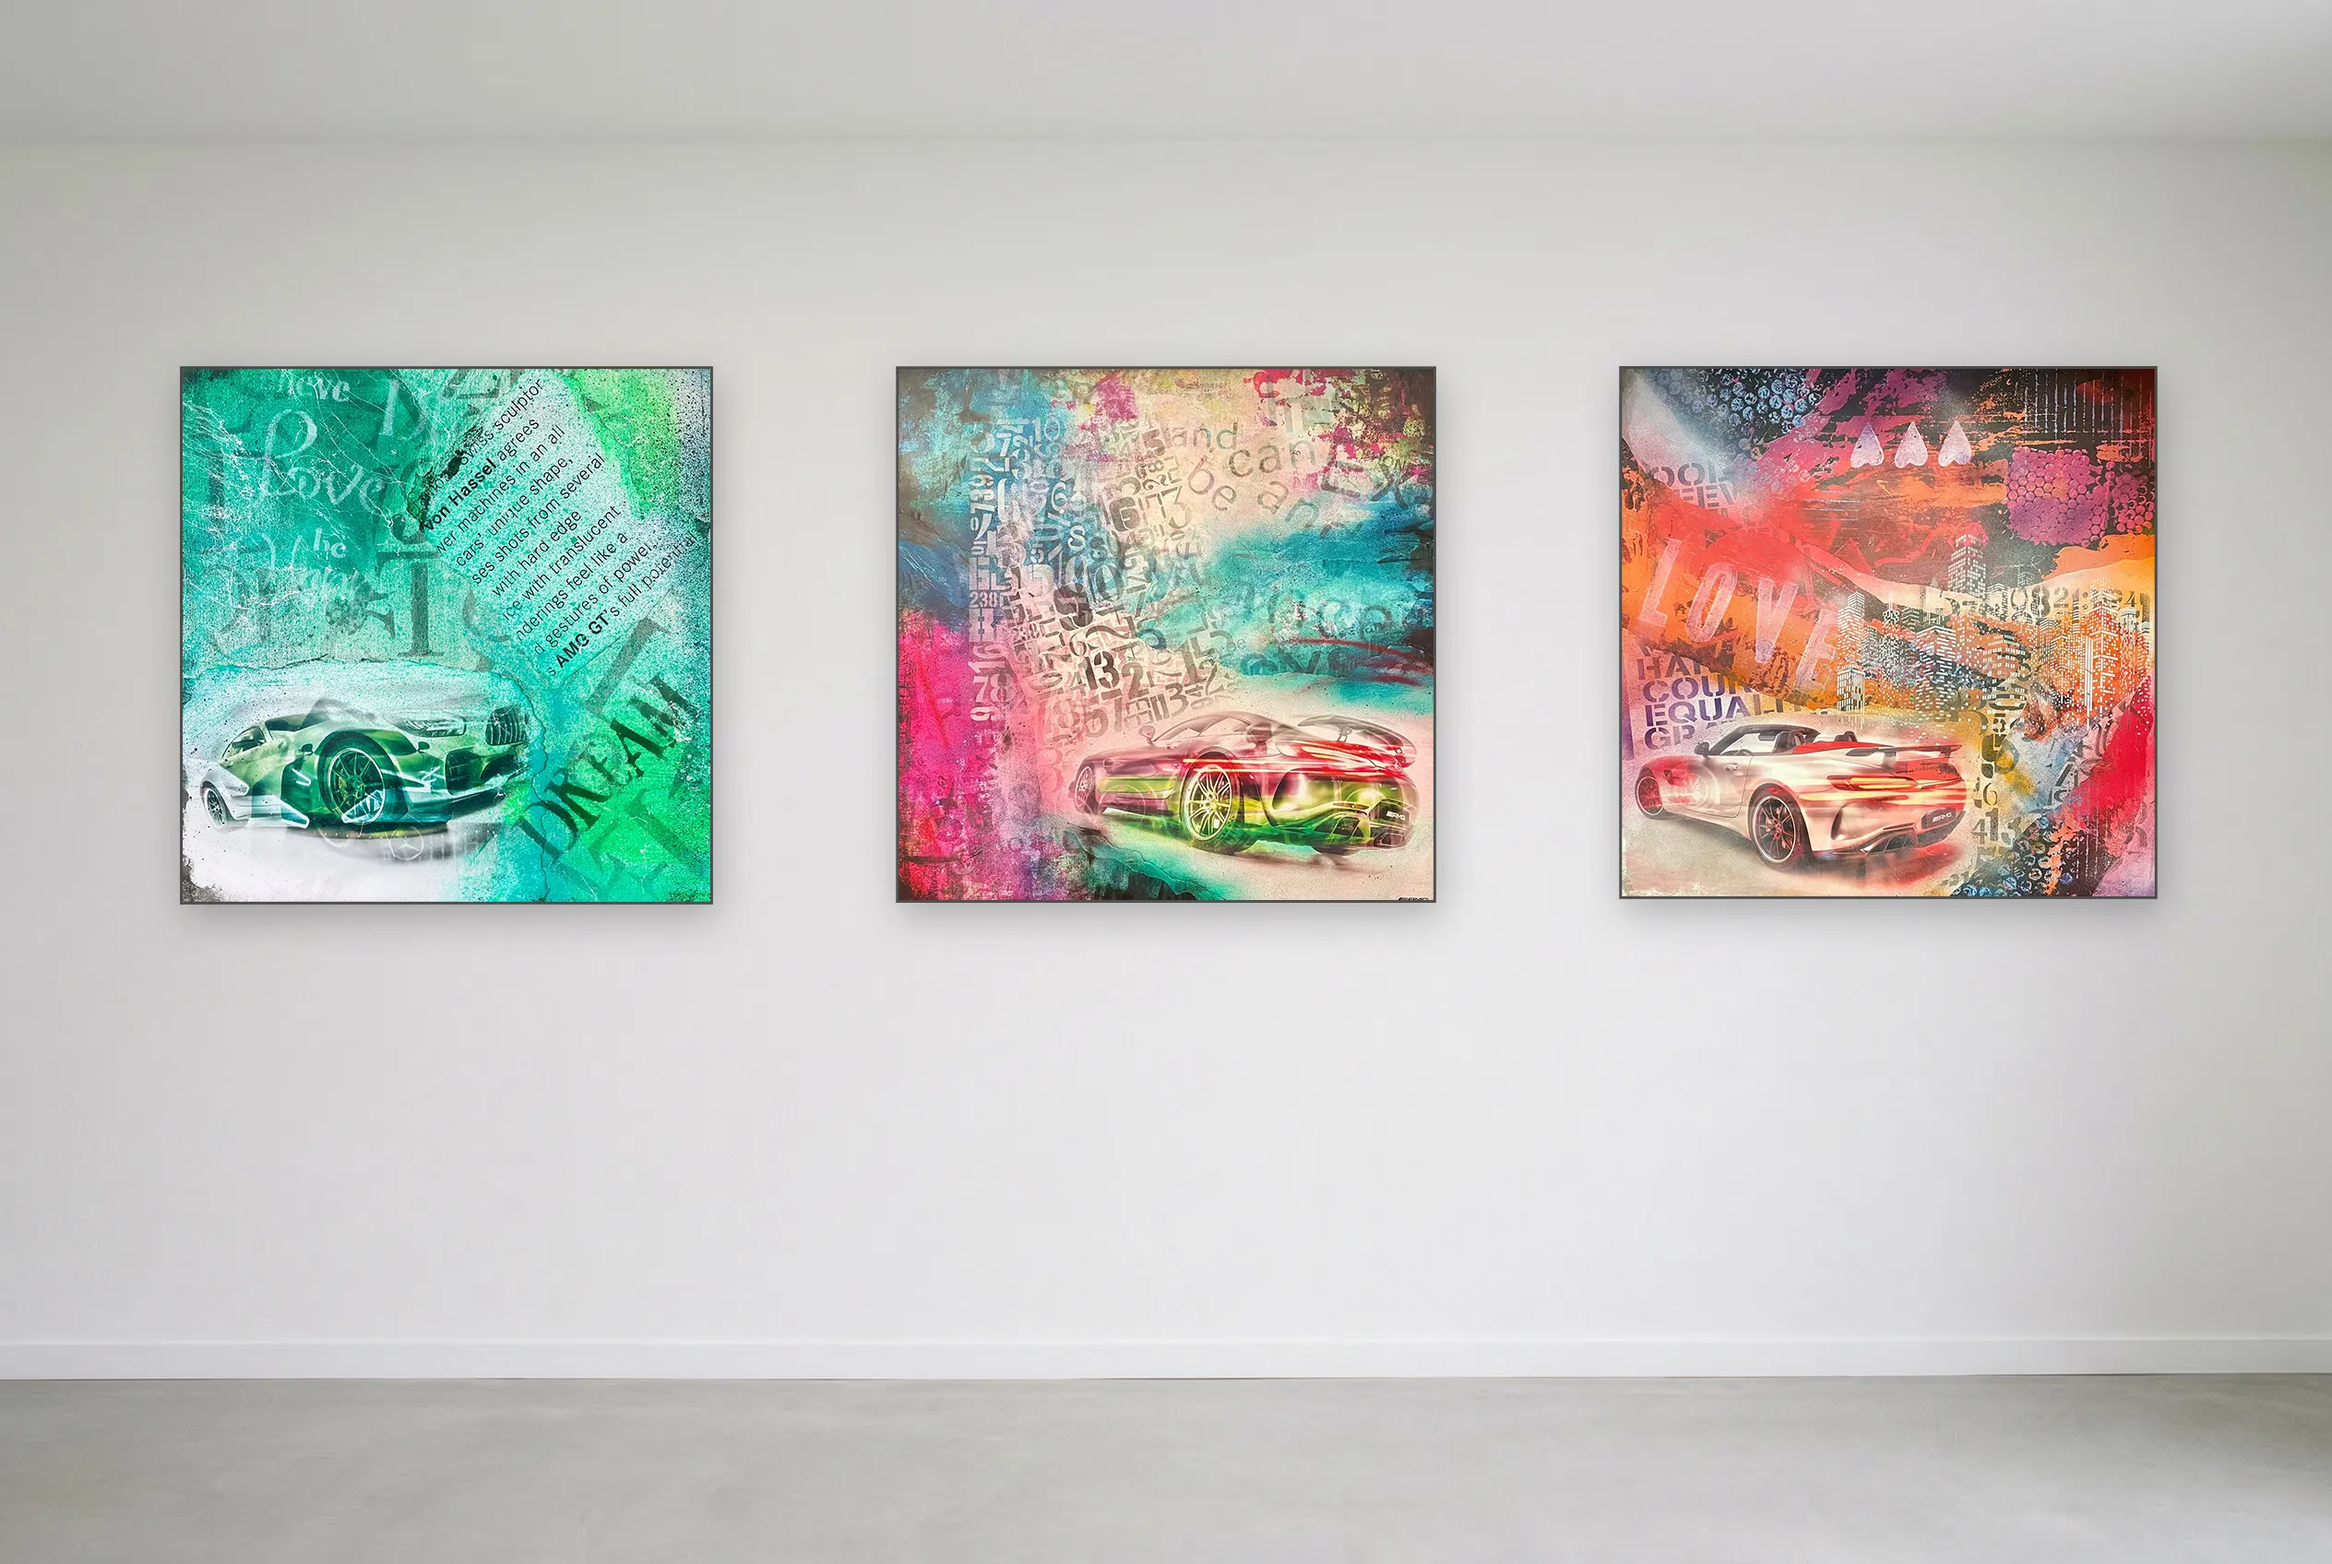
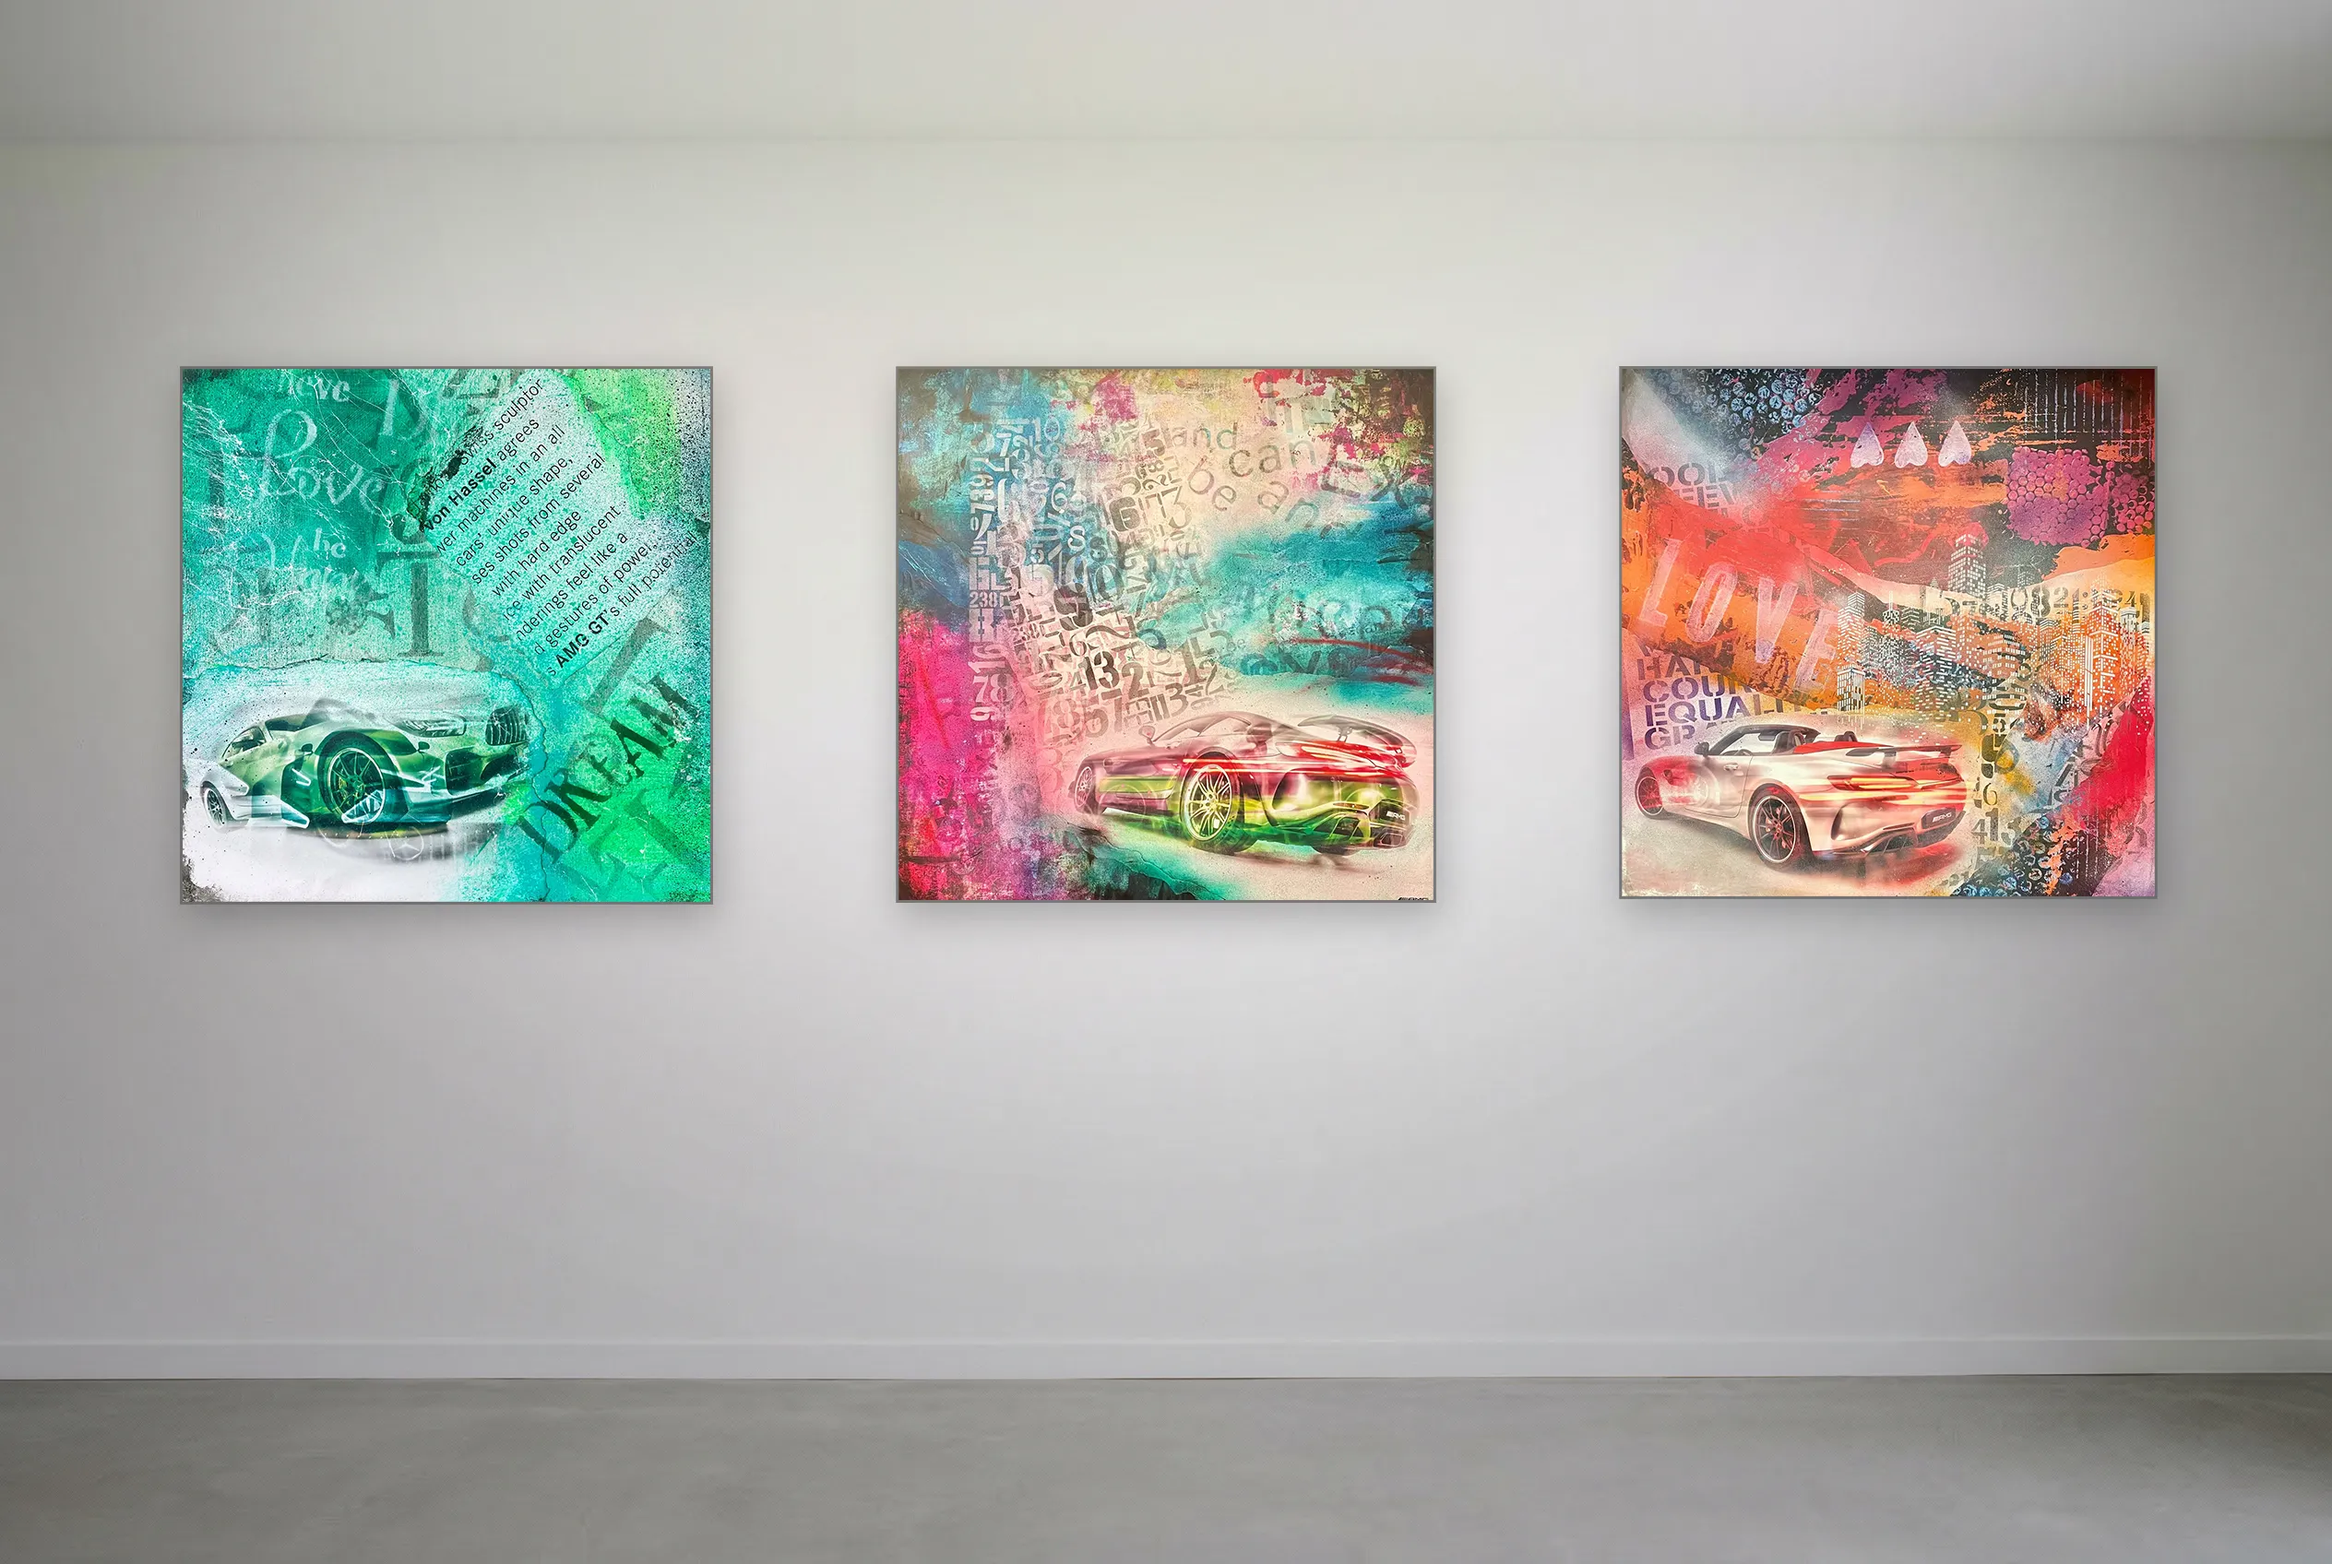
vor Serien-Raum

diff --git a/ui/components/SeriesTest.jsx b/ui/components/SeriesTest.jsx
@@ -1,6 +1,6 @@
 
 import Image from "next/image";
-import amg from "@/ui/images/AMG_Neu_ergebnis.webp";
+import amg from "@/ui/images/Serien-16zu9_ergebnis.webp";
 
 export default function SeriesTest(){
 
@@ -10,8 +10,8 @@ export default function SeriesTest(){
                 <Image
                 src={amg}
                 alt="Neues Serienbild"
-                width={2528}
-                height={1696}
+                width={2752}
+                height={1536}
                 className="w-full"
                 priority
             />
